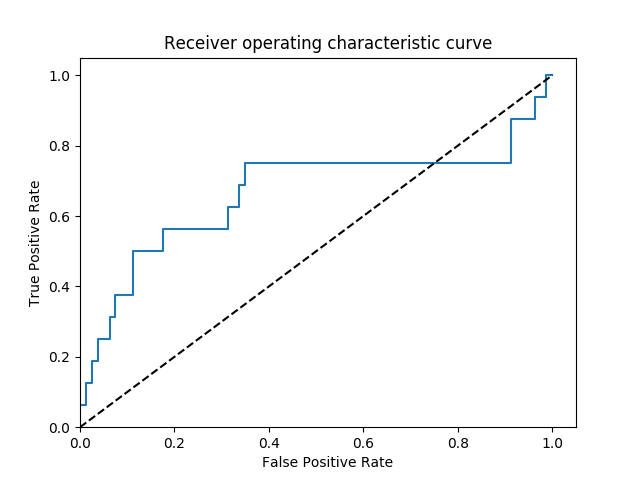
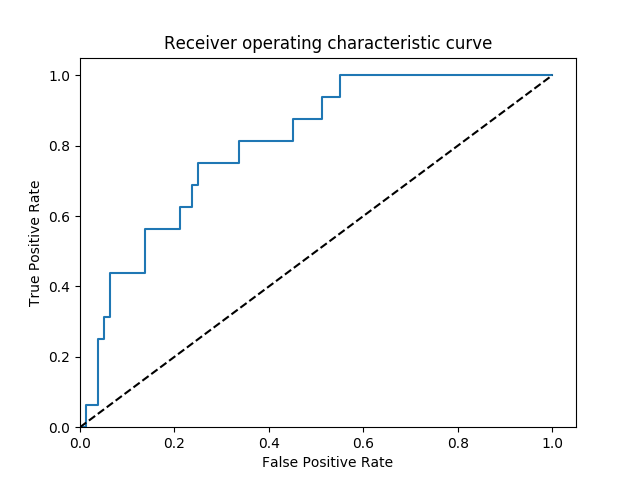
TEST RUN: dropout 0.5 after each layer (other than output layer)

diff --git a/nn.py b/nn.py
@@ -5,7 +5,7 @@ import numpy as np
 import pandas as pd
 import matplotlib.pyplot as plt
 from keras.models import Sequential
-from keras.layers import Dense, Activation
+from keras.layers import Dense, Activation, Dropout
 from sklearn.preprocessing import MinMaxScaler
 from sklearn.model_selection import KFold
 from sklearn.metrics import roc_curve, auc, accuracy_score, precision_score, recall_score, confusion_matrix
@@ -50,7 +50,7 @@ for train_index, test_index in kf.split(X):
     model.compile(loss='binary_crossentropy', optimizer='adagrad', metrics=['accuracy'])
 
     # Fit the model
-    model.fit(X_train, y_train, epochs=2, batch_size=10, verbose=0)
+    model.fit(X_train, y_train, epochs=1000, batch_size=10, verbose=0)
 
     # Evaluate the model
     y_pred = model.predict(X_test)

diff --git a/results/log.md b/results/log.md
@@ -1,129 +1,138 @@
 # FOLD 01
 ##### Accuracy : 0.793814
-##### Precision : 1.000000
+##### Precision : 0.600000
+##### Recall : 0.142857
+### Confusion Matrix
+|       |    0    |    1    |
+|-------|---------|---------|
+|   0   |   74    |    2    |
+|   1   |   18    |    3    |
+### ROC Curve
+![](results/roc/fold_01.png)
+##### AUC : 0.689850
+
+---
+
+# FOLD 02
+##### Accuracy : 0.907216
+##### Precision : 0.500000
+##### Recall : 0.111111
+### Confusion Matrix
+|       |    0    |    1    |
+|-------|---------|---------|
+|   0   |   87    |    1    |
+|   1   |    8    |    1    |
+### ROC Curve
+![](results/roc/fold_02.png)
+##### AUC : 0.688763
+
+---
+
+# FOLD 03
+##### Accuracy : 0.752577
+##### Precision : 0.800000
+##### Recall : 0.148148
+### Confusion Matrix
+|       |    0    |    1    |
+|-------|---------|---------|
+|   0   |   69    |    1    |
+|   1   |   23    |    4    |
+### ROC Curve
+![](results/roc/fold_03.png)
+##### AUC : 0.697354
+
+---
+
+# FOLD 04
+##### Accuracy : 0.804124
+##### Precision : 0.666667
+##### Recall : 0.100000
+### Confusion Matrix
+|       |    0    |    1    |
+|-------|---------|---------|
+|   0   |   76    |    1    |
+|   1   |   18    |    2    |
+### ROC Curve
+![](results/roc/fold_04.png)
+##### AUC : 0.704545
+
+---
+
+# FOLD 05
+##### Accuracy : 0.865979
+##### Precision : 0.333333
+##### Recall : 0.181818
+### Confusion Matrix
+|       |    0    |    1    |
+|-------|---------|---------|
+|   0   |   82    |    4    |
+|   1   |    9    |    2    |
+### ROC Curve
+![](results/roc/fold_05.png)
+##### AUC : 0.787526
+
+---
+
+# FOLD 06
+##### Accuracy : 0.781250
+##### Precision : 0.500000
 ##### Recall : 0.047619
 ### Confusion Matrix
 |       |    0    |    1    |
 |-------|---------|---------|
-|   0   |   76    |    0    |
+|   0   |   74    |    1    |
 |   1   |   20    |    1    |
 ### ROC Curve
-![](results/roc/fold_01.png)
-##### AUC : 0.522556
-
----
-# FOLD 02
-##### Accuracy : 0.907216
-##### Precision : 0.000000
-##### Recall : 0.000000
-### Confusion Matrix
-|       |    0    |    1    |
-|-------|---------|---------|
-|   0   |   88    |    0    |
-|   1   |    9    |    0    |
-### ROC Curve
-![](results/roc/fold_02.png)
-##### AUC : 0.671086
-
----
-# FOLD 03
-##### Accuracy : 0.721649
-##### Precision : 0.000000
-##### Recall : 0.000000
-### Confusion Matrix
-|       |    0    |    1    |
-|-------|---------|---------|
-|   0   |   70    |    0    |
-|   1   |   27    |    0    |
-### ROC Curve
-![](results/roc/fold_03.png)
-##### AUC : 0.542328
-
----
-# FOLD 04
-##### Accuracy : 0.793814
-##### Precision : 0.000000
-##### Recall : 0.000000
-### Confusion Matrix
-|       |    0    |    1    |
-|-------|---------|---------|
-|   0   |   77    |    0    |
-|   1   |   20    |    0    |
-### ROC Curve
-![](results/roc/fold_04.png)
-##### AUC : 0.631169
-
----
-# FOLD 05
-##### Accuracy : 0.886598
-##### Precision : 0.000000
-##### Recall : 0.000000
-### Confusion Matrix
-|       |    0    |    1    |
-|-------|---------|---------|
-|   0   |   86    |    0    |
-|   1   |   11    |    0    |
-### ROC Curve
-![](results/roc/fold_05.png)
-##### AUC : 0.792812
-
----
-# FOLD 06
-##### Accuracy : 0.781250
-##### Precision : 0.000000
-##### Recall : 0.000000
-### Confusion Matrix
-|       |    0    |    1    |
-|-------|---------|---------|
-|   0   |   75    |    0    |
-|   1   |   21    |    0    |
-### ROC Curve
 ![](results/roc/fold_06.png)
-##### AUC : 0.634921
+##### AUC : 0.652698
 
 ---
+
 # FOLD 07
-##### Accuracy : 0.833333
-##### Precision : 0.000000
-##### Recall : 0.000000
+##### Accuracy : 0.822917
+##### Precision : 0.400000
+##### Recall : 0.125000
 ### Confusion Matrix
 |       |    0    |    1    |
 |-------|---------|---------|
-|   0   |   80    |    0    |
-|   1   |   16    |    0    |
+|   0   |   77    |    3    |
+|   1   |   14    |    2    |
 ### ROC Curve
 ![](results/roc/fold_07.png)
-##### AUC : 0.485156
+##### AUC : 0.558594
 
 ---
+
 # FOLD 08
-##### Accuracy : 0.750000
-##### Precision : 0.000000
-##### Recall : 0.000000
+##### Accuracy : 0.739583
+##### Precision : 0.333333
+##### Recall : 0.041667
 ### Confusion Matrix
 |       |    0    |    1    |
 |-------|---------|---------|
-|   0   |   72    |    0    |
-|   1   |   24    |    0    |
+|   0   |   70    |    2    |
+|   1   |   23    |    1    |
 ### ROC Curve
 ![](results/roc/fold_08.png)
-##### AUC : 0.570023
+##### AUC : 0.667245
 
 ---
+
 # FOLD 09
 ##### Accuracy : 0.843750
-##### Precision : 0.600000
-##### Recall : 0.187500
+##### Precision : 0.571429
+##### Recall : 0.250000
 ### Confusion Matrix
 |       |    0    |    1    |
 |-------|---------|---------|
-|   0   |   78    |    2    |
-|   1   |   13    |    3    |
+|   0   |   77    |    3    |
+|   1   |   12    |    4    |
 ### ROC Curve
 ![](results/roc/fold_09.png)
-##### AUC : 0.663281
+##### AUC : 0.804688
 
 ---
+
 # FOLD 10
 ##### Accuracy : 0.770833
 ##### Precision : 1.000000
@@ -135,6 +144,7 @@
 |   1   |   22    |    1    |
 ### ROC Curve
 ![](results/roc/fold_10.png)
-##### AUC : 0.653961
+##### AUC : 0.708755
 
 ---
+
